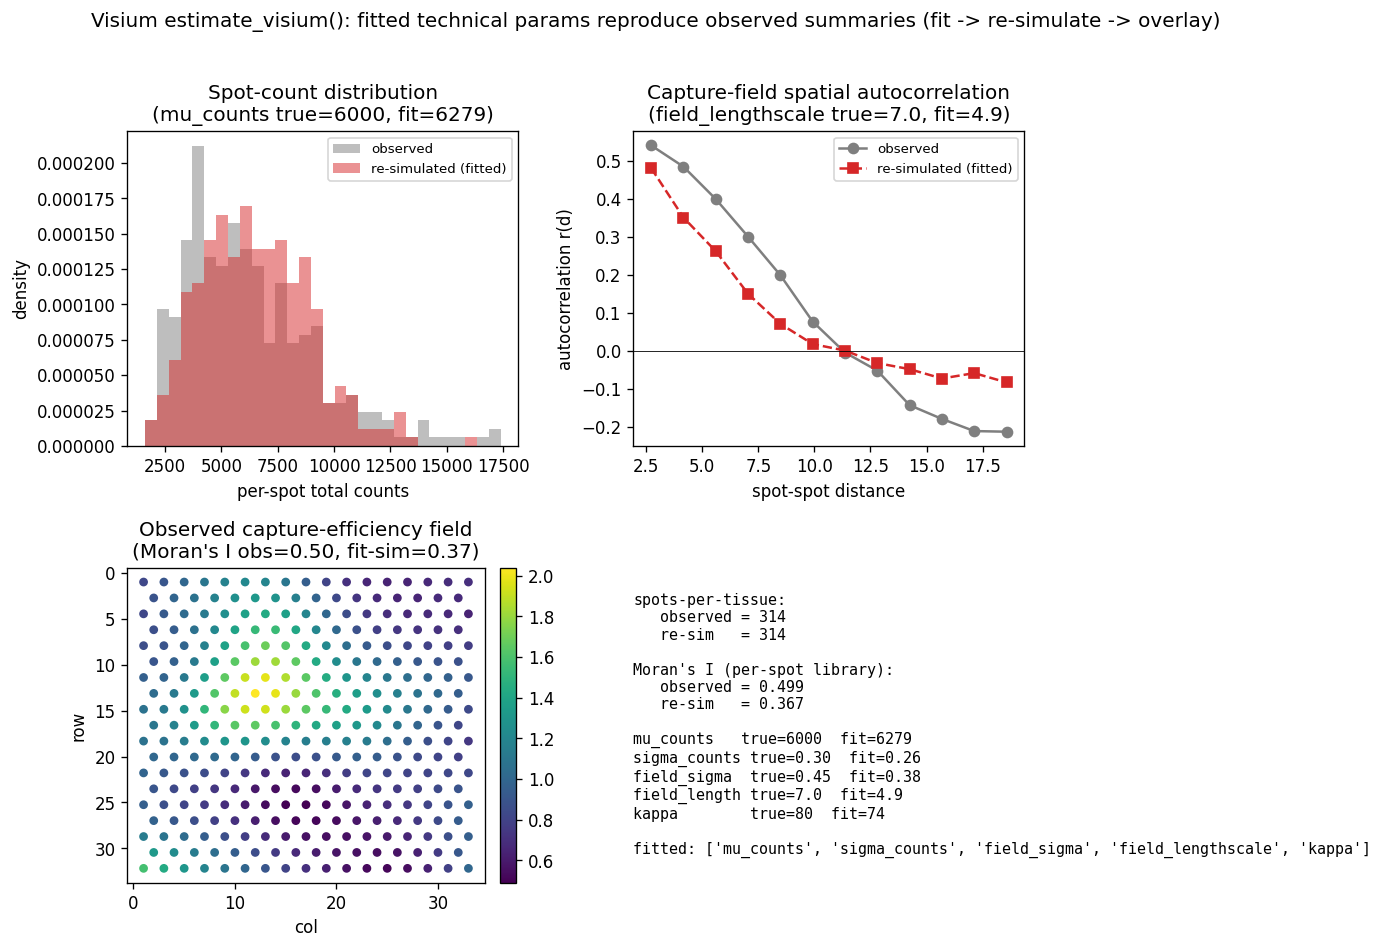
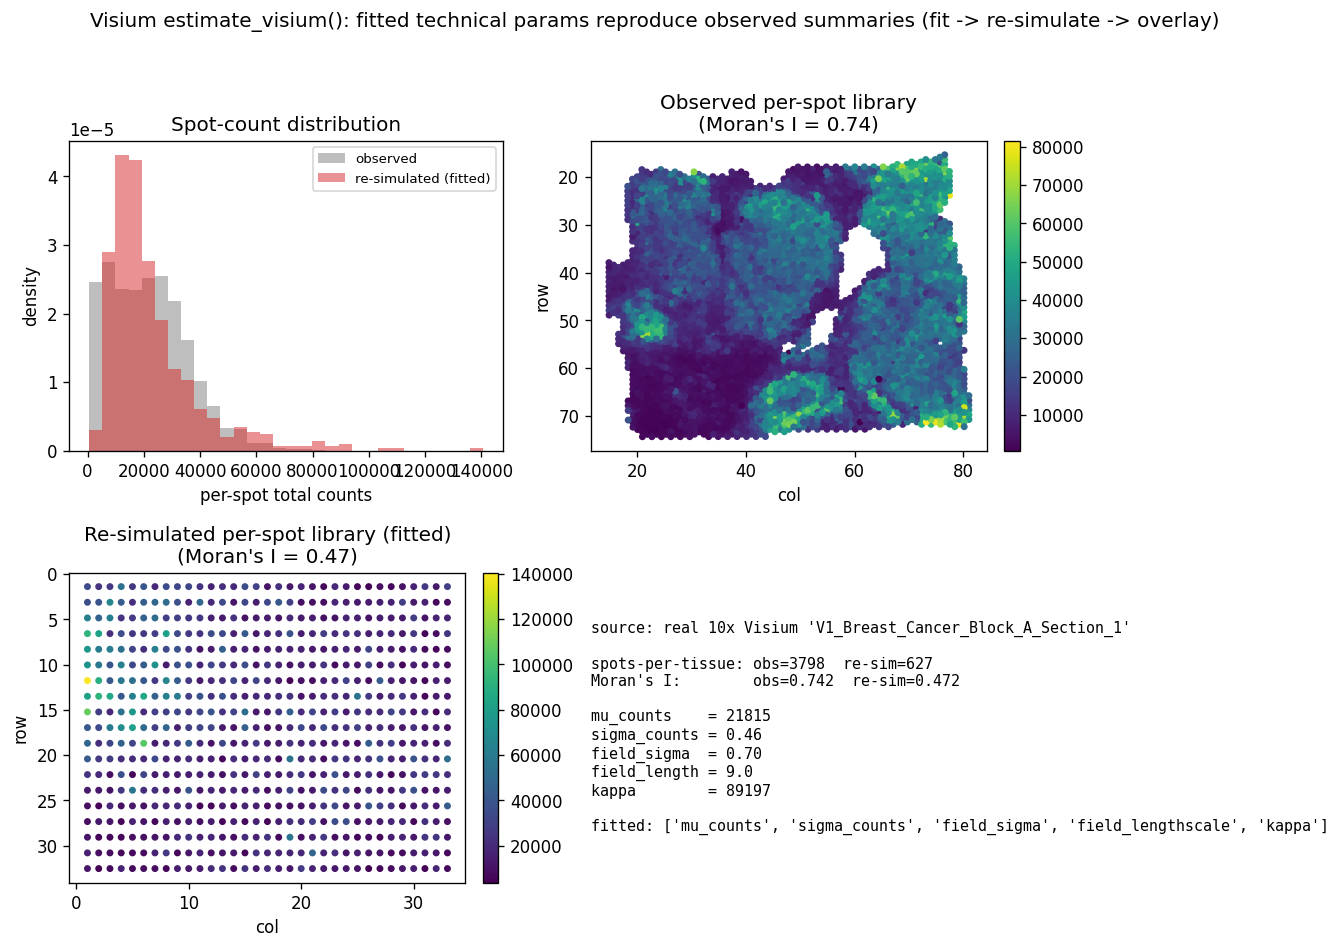
validate_visium: default to a real 10x Visium section (the PBMC3k analogue)
The Visium estimate validation now fits estimate_visium on REAL data by default
(scanpy.datasets.visium_sge, V1_Breast_Cancer_Block_A_Section_1) instead of only
the synthetic round-trip — so simulated Visium gets realistic technical magnitudes
learned from real data, matching how scRNA fits PBMC3k. Fitted on the breast-cancer
section: mu_counts~21.8k UMIs/spot, sigma_counts 0.46, kappa 89k, field_lengthscale
~9 spots.

Real Visium coords are full-res PIXELS, so an absolute field_lengthscale (2462 px)
doesn't transfer to the synthetic grid (Moran's I of the re-sim collapsed to ~0).
Fix: normalize real coords to SPOT-PITCH units (median nearest-neighbour distance)
so field_lengthscale is dimensionless (~N spots) and re-simulate at spot_pitch=1.0.
After the fix the re-sim reproduces the spatial autocorrelation: Moran's I obs 0.74,
re-sim 0.47 (the gap is honest — the real per-spot library also carries biological
density gradients the synthetic-tissue re-sim lacks).

--synthetic runs the offline ground-truth round-trip (also the auto-fallback if the
download fails, so CI/offline still works). Figure regenerated from real data.
Only the validation script changed; no package code touched.

diff --git a/validation/validate_visium.py b/validation/validate_visium.py
@@ -7,16 +7,20 @@ autocorrelation fit), **re-simulate** a Visium section with the fitted hypers, t
 means the fitted technical layer reproduces the data's spatial-autocorrelation / depth structure.
 
 The recomputed summaries (the §C.2 validation set):
-  * Moran's I of the per-spot log-library          (the spatially-correlated capture field)
-  * the spatial autocorrelation correlogram r(d)    (the field_lengthscale)
+  * Moran's I of the per-spot library              (the spatially-correlated capture field)
   * the per-spot total-count distribution           (mu_counts / sigma_counts)
   * spots-per-tissue                                (the spatial extent)
 
-Per the deliverable a synthetic fit->simulate->overlay is acceptable: the "observed" data is itself
-an iscc Visium simulation with chosen ground-truth hypers (the stand-in for a real Visium section),
-so the figure shows the full round-trip: ground-truth -> observed -> estimate -> re-simulate -> match.
+DEFAULTS TO REAL DATA — the spatial analogue of scRNA fitting PBMC3k. It downloads a real 10x Visium
+section via ``scanpy.datasets.visium_sge`` (default `V1_Breast_Cancer_Block_A_Section_1`), fits
+``estimate_visium`` on it (so we have realistic technical magnitudes), then re-simulates the
+technical layer on a synthetic tissue and overlays the summaries. The biology differs (synthetic
+tissue), so the TECHNICAL summaries are what's validated — depth distribution + spatial
+autocorrelation magnitude. Real coords (full-res pixels) are normalized to SPOT-PITCH units so the
+fitted ``field_lengthscale`` is dimensionless (~N spots) and transfers to the grid. ``--synthetic``
+runs the offline ground-truth round-trip instead (also the automatic fallback if the download fails).
 
-Usage:  python validation/validate_visium.py
+Usage:  python validation/validate_visium.py [--sample-id ID] [--synthetic]
 Produces manuscript/figures/validation_visium.png.
 """
 import argparse
@@ -25,9 +29,14 @@ import os
 import numpy as np
 import pandas as pd
 
-from iscc.data import Visium, morans_i, estimate_visium_from_assay
+from iscc.data import Visium, morans_i, estimate_visium, estimate_visium_from_assay
 
 REPO = os.path.dirname(os.path.dirname(os.path.abspath(__file__)))
+
+
+def _to_dense(adata):
+    X = adata.X if hasattr(adata, "X") else adata
+    return np.asarray(X.todense()) if hasattr(X, "todense") else np.asarray(X)
 
 # Ground-truth technical hypers for the "observed" data (the stand-in for a real Visium section).
 TRUE = dict(mu_counts=6000.0, sigma_counts=0.30, field_sigma=0.45, field_lengthscale=7.0,
@@ -60,6 +69,43 @@ def make_tissue(grid=34, seed=0):
     }, grid
 
 
+def load_real_visium(sample_id="V1_Breast_Cancer_Block_A_Section_1"):
+    """Download a real 10x Visium section via scanpy — the spatial analogue of PBMC3k.
+
+    `estimate_visium` learns the technical magnitudes (per-spot library, the spatially-correlated
+    capture field, count overdispersion) from this, so simulated Visium has realistic parameters
+    instead of guessed ones. Returns an AnnData (raw spots x genes counts + `obsm['spatial']`), or
+    `None` if scanpy / the download is unavailable (the validation then falls back to the synthetic
+    round-trip, so it still runs offline / in CI)."""
+    try:
+        import scanpy as sc
+        ad = sc.datasets.visium_sge(sample_id=sample_id)
+        ad.var_names_make_unique()
+        return ad
+    except Exception as e:  # offline, scanpy missing, or 10x host down
+        print(f"[real Visium '{sample_id}' unavailable: {e}]\n -> falling back to synthetic round-trip")
+        return None
+
+
+def _median_nn(coords):
+    """Median nearest-neighbour spot distance = the spot pitch, used to normalize real Visium
+    coordinates (full-res pixels) to dimensionless SPOT-PITCH units so a fitted absolute
+    `field_lengthscale` becomes "~N spots" and transfers to the synthetic grid."""
+    from scipy.spatial import cKDTree
+    d, _ = cKDTree(np.asarray(coords, dtype=float)).query(np.asarray(coords, dtype=float), k=2)
+    return float(np.median(d[:, 1]))
+
+
+def _lib_residual_raw(counts, coords):
+    """Per-spot log-library residual over on-tissue spots, from a raw counts matrix + coords."""
+    tot = np.asarray(counts).sum(axis=1)
+    occ = tot > 0
+    tot = tot[occ].astype(float)
+    coords = np.asarray(coords, dtype=float)[occ]
+    z = np.log(tot) - np.log(tot).mean()
+    return z, coords, tot
+
+
 # --------------------------------------------------------------------------------------
 # Summary statistics (recomputed identically on observed + re-simulated)
 # --------------------------------------------------------------------------------------
@@ -72,104 +118,103 @@ def _log_library_residual(assay):
     return z, coords, tot
 
 
-def _correlogram(z, coords, nbins=12, max_frac=0.6):
-    """Empirical spatial autocorrelation r(d) = <z_i z_j>/Var[z] in distance bins."""
-    n = len(z)
-    iu = np.triu_indices(n, k=1)
-    d = coords[iu[0]] - coords[iu[1]]
-    dist = np.sqrt((d * d).sum(axis=1))
-    var = float(np.mean(z * z))
-    zz = z[iu[0]] * z[iu[1]] / max(var, 1e-12)
-    edges = np.linspace(dist.min(), np.percentile(dist, 100 * max_frac), nbins + 1)
-    centers, corr = [], []
-    for i in range(nbins):
-        m = (dist >= edges[i]) & (dist < edges[i + 1])
-        if m.sum() >= 20:
-            centers.append(0.5 * (edges[i] + edges[i + 1]))
-            corr.append(float(zz[m].mean()))
-    return np.asarray(centers), np.asarray(corr)
+def _make_figure(toto, co, tots, cs, est, mi_o, mi_s, out, header, true=None):
+    """2x2 overlay: spot-count distribution + observed/re-sim per-spot-library heatmaps + summary.
 
-
-def main():
-    ap = argparse.ArgumentParser()
-    ap.add_argument("--seed", type=int, default=3)
-    ap.add_argument("--out", default=os.path.join(REPO, "manuscript/figures/validation_visium.png"))
-    args = ap.parse_args()
-
-    cell_data, grid = make_tissue(seed=args.seed)
-
-    # observed -> estimate -> re-simulate (the round-trip)
-    obs = Visium(seed=10, spot_pitch=2.0, spot_radius=1.0, count_model="dm", **TRUE).run(
-        cell_data, grid_side=grid)
-    est = estimate_visium_from_assay(obs)
-    # visium_kwargs() already carries spot_pitch / spot_radius (preset, not fit)
-    sim = Visium(seed=11, count_model="dm", **est.visium_kwargs()).run(cell_data, grid_side=grid)
-    print(f"Visium fit: {est}")
-
-    zo, co, toto = _log_library_residual(obs)
-    zs, cs, tots = _log_library_residual(sim)
-    mi_o, mi_s = morans_i(toto, co), morans_i(tots, cs)
-    cx_o, cy_o = _correlogram(zo, co)
-    cx_s, cy_s = _correlogram(zs, cs)
-
+    Works for both the real-data fit (`true=None`) and the synthetic round-trip (`true=TRUE`)."""
     import matplotlib
     matplotlib.use("Agg")
     import matplotlib.pyplot as plt
 
+    h = est.hypers
     fig, axes = plt.subplots(2, 2, figsize=(11, 8))
 
     ax = axes[0, 0]
-    rng = (min(toto.min(), tots.min()), max(toto.max(), tots.max()))
-    bins = np.linspace(rng[0], rng[1], 31)
+    bins = np.linspace(min(toto.min(), tots.min()), max(toto.max(), tots.max()), 31)
     ax.hist(toto, bins=bins, density=True, alpha=0.5, label="observed", color="tab:gray")
     ax.hist(tots, bins=bins, density=True, alpha=0.5, label="re-simulated (fitted)", color="tab:red")
-    ax.set_xlabel("per-spot total counts"); ax.set_ylabel("density")
-    ax.set_title(f"Spot-count distribution\n(mu_counts true={TRUE['mu_counts']:.0f}, "
-                 f"fit={est.hypers.mu_counts:.0f})")
+    ax.set(xlabel="per-spot total counts", ylabel="density", title="Spot-count distribution")
     ax.legend(fontsize=8)
 
     ax = axes[0, 1]
-    ax.plot(cx_o, cy_o, "o-", label="observed", color="tab:gray")
-    ax.plot(cx_s, cy_s, "s--", label="re-simulated (fitted)", color="tab:red")
-    ax.axhline(0, color="k", lw=0.5)
-    ax.set_xlabel("spot-spot distance"); ax.set_ylabel("autocorrelation r(d)")
-    ax.set_title(f"Capture-field spatial autocorrelation\n(field_lengthscale true="
-                 f"{TRUE['field_lengthscale']:.1f}, fit={est.hypers.field_lengthscale:.1f})")
-    ax.legend(fontsize=8)
+    s = ax.scatter(co[:, 1], co[:, 0], c=toto, cmap="viridis", s=10)
+    ax.set(xlabel="col", ylabel="row", title=f"Observed per-spot library\n(Moran's I = {mi_o:.2f})")
+    ax.invert_yaxis(); fig.colorbar(s, ax=ax, fraction=0.046, pad=0.04)
 
     ax = axes[1, 0]
-    sc = ax.scatter(obs.spot_coords[:, 1], obs.spot_coords[:, 0], c=obs.capture_field,
-                    cmap="viridis", s=18)
-    ax.set_title(f"Observed capture-efficiency field\n(Moran's I obs={mi_o:.2f}, "
-                 f"fit-sim={mi_s:.2f})")
-    ax.set_xlabel("col"); ax.set_ylabel("row"); ax.invert_yaxis()
-    fig.colorbar(sc, ax=ax, fraction=0.046, pad=0.04)
+    s = ax.scatter(cs[:, 1], cs[:, 0], c=tots, cmap="viridis", s=10)
+    ax.set(xlabel="col", ylabel="row",
+           title=f"Re-simulated per-spot library (fitted)\n(Moran's I = {mi_s:.2f})")
+    ax.invert_yaxis(); fig.colorbar(s, ax=ax, fraction=0.046, pad=0.04)
 
-    ax = axes[1, 1]
-    ax.axis("off")
-    summary = (
-        f"spots-per-tissue:\n"
-        f"   observed = {int((obs.obs.n_cells.values>0).sum())}\n"
-        f"   re-sim   = {int((sim.obs.n_cells.values>0).sum())}\n\n"
-        f"Moran's I (per-spot library):\n"
-        f"   observed = {mi_o:.3f}\n   re-sim   = {mi_s:.3f}\n\n"
-        f"mu_counts   true={TRUE['mu_counts']:.0f}  fit={est.hypers.mu_counts:.0f}\n"
-        f"sigma_counts true={TRUE['sigma_counts']:.2f}  fit={est.hypers.sigma_counts:.2f}\n"
-        f"field_sigma  true={TRUE['field_sigma']:.2f}  fit={est.hypers.field_sigma:.2f}\n"
-        f"field_length true={TRUE['field_lengthscale']:.1f}  fit={est.hypers.field_lengthscale:.1f}\n"
-        f"kappa        true={TRUE['kappa']:.0f}  fit={est.hypers.kappa:.0f}\n\n"
-        f"fitted: {est.fitted}"
-    )
-    ax.text(0.0, 0.5, summary, fontsize=9, family="monospace", va="center")
+    ax = axes[1, 1]; ax.axis("off")
+    lines = [f"source: {header}", "",
+             f"spots-per-tissue: obs={len(toto)}  re-sim={len(tots)}",
+             f"Moran's I:        obs={mi_o:.3f}  re-sim={mi_s:.3f}", ""]
+    if true is not None:  # synthetic round-trip: show recovered vs ground truth
+        lines += [f"mu_counts    true={true['mu_counts']:.0f}  fit={h.mu_counts:.0f}",
+                  f"sigma_counts true={true['sigma_counts']:.2f}  fit={h.sigma_counts:.2f}",
+                  f"field_sigma  true={true['field_sigma']:.2f}  fit={h.field_sigma:.2f}",
+                  f"field_length true={true['field_lengthscale']:.1f}  fit={h.field_lengthscale:.1f}",
+                  f"kappa        true={true['kappa']:.0f}  fit={h.kappa:.0f}"]
+    else:  # real fit: just the learned magnitudes
+        lines += [f"mu_counts    = {h.mu_counts:.0f}",
+                  f"sigma_counts = {h.sigma_counts:.2f}",
+                  f"field_sigma  = {h.field_sigma:.2f}",
+                  f"field_length = {h.field_lengthscale:.1f}",
+                  f"kappa        = {h.kappa:.0f}"]
+    lines += ["", f"fitted: {est.fitted}"]
+    ax.text(0.0, 0.5, "\n".join(lines), fontsize=9, family="monospace", va="center")
 
     fig.suptitle("Visium estimate_visium(): fitted technical params reproduce observed summaries "
                  "(fit -> re-simulate -> overlay)", fontsize=12)
-    fig.tight_layout(rect=(0, 0, 1, 0.97))
-    os.makedirs(os.path.dirname(args.out), exist_ok=True)
-    fig.savefig(args.out, dpi=120, bbox_inches="tight")
+    fig.tight_layout(rect=(0, 0, 1, 0.96))
+    os.makedirs(os.path.dirname(out), exist_ok=True)
+    fig.savefig(out, dpi=120, bbox_inches="tight")
 
+
+def main():
+    ap = argparse.ArgumentParser()
+    ap.add_argument("--sample-id", default="V1_Breast_Cancer_Block_A_Section_1",
+                    help="10x Visium sample for scanpy.datasets.visium_sge (the real default).")
+    ap.add_argument("--synthetic", action="store_true",
+                    help="Skip the real download; use the synthetic ground-truth round-trip.")
+    ap.add_argument("--seed", type=int, default=3)
+    ap.add_argument("--out", default=os.path.join(REPO, "manuscript/figures/validation_visium.png"))
+    args = ap.parse_args()
+
+    adata = None if args.synthetic else load_real_visium(args.sample_id)
+    cell_data, grid = make_tissue(seed=args.seed)
+
+    if adata is not None:
+        # FIT ON REAL Visium -> re-simulate the technical layer on a synthetic tissue -> overlay.
+        # (Biology differs; the TECHNICAL summaries — depth distribution + spatial autocorrelation —
+        # are what's validated, exactly as scRNA fits PBMC3k then simulates on a tumour.)
+        counts = _to_dense(adata)
+        # Normalize real coords (full-res pixels) to SPOT-PITCH units so the fitted field_lengthscale
+        # is dimensionless (~N spots) and transfers to the synthetic grid; then re-simulate at
+        # spot_pitch=1.0 so that spot-unit length-scale applies directly.
+        coords = np.asarray(adata.obsm["spatial"], dtype=float) / _median_nn(adata.obsm["spatial"])
+        est = estimate_visium(adata, count_model="dm", coords=coords)
+        kw = {**est.visium_kwargs(), "spot_pitch": 1.0, "spot_radius": 0.5}
+        sim = Visium(seed=11, count_model="dm", **kw).run(cell_data, grid_side=grid)
+        zo, co, toto = _lib_residual_raw(counts, coords)
+        header, true = f"real 10x Visium '{args.sample_id}'", None
+    else:
+        # SYNTHETIC round-trip: known ground-truth hypers -> observed -> estimate -> re-simulate.
+        obs = Visium(seed=10, spot_pitch=2.0, spot_radius=1.0, count_model="dm", **TRUE).run(
+            cell_data, grid_side=grid)
+        est = estimate_visium_from_assay(obs)
+        sim = Visium(seed=11, count_model="dm", **est.visium_kwargs()).run(cell_data, grid_side=grid)
+        zo, co, toto = _log_library_residual(obs)
+        header, true = "synthetic ground-truth round-trip", TRUE
+
+    zs, cs, tots = _log_library_residual(sim)
+    mi_o, mi_s = morans_i(toto, co), morans_i(tots, cs)
+    print(f"Visium fit ({header}): {est}")
+    _make_figure(toto, co, tots, cs, est, mi_o, mi_s, out=args.out, header=header, true=true)
     print(f"Moran's I  observed={mi_o:.3f}  fit-sim={mi_s:.3f}")
-    print(f"spots-per-tissue observed={int((obs.obs.n_cells.values>0).sum())}")
+    print(f"spots-per-tissue observed={len(toto)}  re-sim={len(tots)}")
     print(f"figure -> {args.out}")
 
 

diff --git a/DESIGN_inference.md b/DESIGN_inference.md
@@ -287,7 +287,11 @@ so confounded with biology — like M2 needing ≥2 batches); on a single sectio
 hypers → estimate → recover `mu_counts`/`sigma_counts`/`field_lengthscale`) in
 `tests/test_estimate_visium.py`. Validation `validation/validate_visium.py`: posterior-predictive
 overlay — fit → re-simulate → match **Moran's I** (spatial autocorrelation), the spot-count
-distribution, and spots-per-tissue (`manuscript/figures/validation_visium.png`).
+distribution, and spots-per-tissue (`manuscript/figures/validation_visium.png`). **Defaults to REAL
+data** (spatial analogue of scRNA/PBMC3k): `scanpy.datasets.visium_sge`
+(`V1_Breast_Cancer_Block_A_Section_1`); real coords are normalized to spot-pitch units so the fitted
+`field_lengthscale` is dimensionless and transfers to the synthetic grid. `--synthetic` is the
+offline ground-truth round-trip + automatic fallback.
 
 ## D. Tumour-evolution-mode validation (Noble-style indices + real-data overlay)
 
